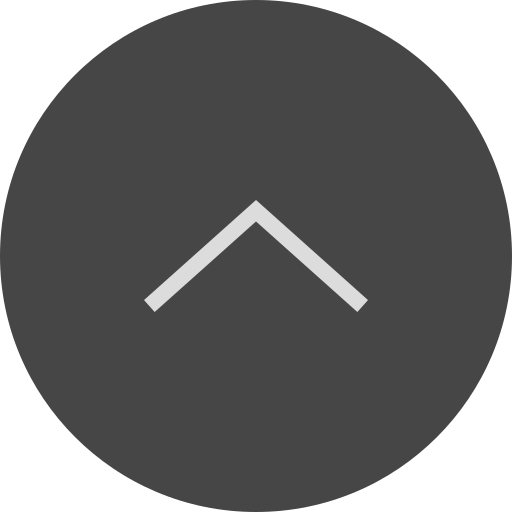
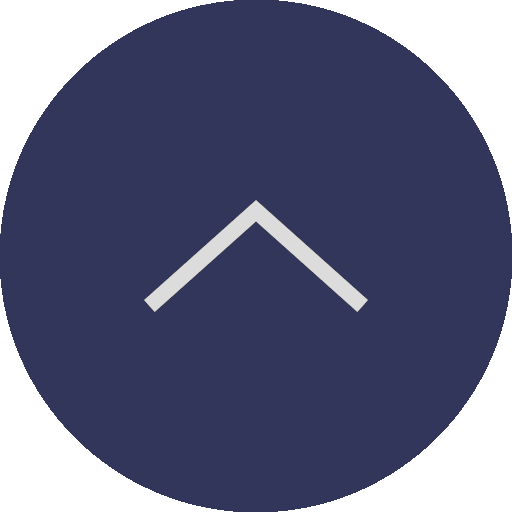
Commit avant retour

diff --git a/frontReact/front-webook/src/assets/components/LibraryFrame/ModalAjout/ModalAjout.js b/frontReact/front-webook/src/assets/components/LibraryFrame/ModalAjout/ModalAjout.js
@@ -1,0 +1,72 @@
+import React, { useState, useEffect } from "react";
+export default function ModalAjout(props) {
+ 
+   return (
+      
+      <form id="modal-ajout"  style={props.isVisible?"display:block":"display:none"}>
+         <section>
+            {/* {coverImgFile ? (
+               <img src={coverImgFile} className="thumbnail" />
+            ) : (
+               <div className="thumbnail"></div>
+            )} */}
+            <label className="input-label" for="coverImg">
+               Couverture
+            </label>
+            <input
+               type="file"
+               name="coverImg"
+              /*  onChange={handleImgChange} */
+               accept="image/*"
+               pattern="^(.*\.(jpg|jpeg|png|gif|bmp|svg|tif|tiff))$"
+            />
+         </section>
+         <label className="input-label" for="titre">
+            Titre
+         </label>
+         <input
+            type="text"
+            maxLength="100"
+            name="titre"
+            pattern="/^[\p{L}]+(?:\s[\p{L}]+)*$/gmu"
+            className="form-input"
+         ></input>
+         <label className="input-label" for="auteur">
+            Auteur
+         </label>
+         <input
+            type="text"
+            maxLength="50"
+            name="auteur"
+            pattern="/^[\p{L}]+(?:\s[\p{L}]+)*$/gmu"
+            className="form-input"
+         ></input>
+         <label className="input-label" for="langue">
+            Langue
+         </label>
+         <input
+            type="text"
+            maxLength="50"
+            name="langue"
+            pattern="/^[\p{L}]+(?:\s[\p{L}]+)*$/gmu"
+            className="form-input"
+         ></input>
+
+         <label for="tag-forest">Tags</label>
+         <input type="text" name="tag-forest" className="tag-forest"></input>
+
+         <label for="abstract">Résumé</label>
+         <input type="text" name="abstract" className="abstract"></input>
+
+         <label for="fichier">
+            Ajoutez un fichier (si vous en avez les droits... 🤡)
+         </label>
+         <input
+            type="file"
+            name="fichier"
+            accept=".txt,.rtf,.doc,.docx,.odt,.pdf"
+         ></input>
+         <input type="submit"></input>
+      </form>
+   );
+}

diff --git a/frontReact/front-webook/src/assets/components/LibraryFrame/LibraryFrame.js b/frontReact/front-webook/src/assets/components/LibraryFrame/LibraryFrame.js
@@ -1,7 +1,17 @@
 import "../LibraryFrame/LibraryFrame.css";
+import ModalAjout from "./ModalAjout/ModalAjout";
 import React, { useState, useEffect } from "react";
 
-export default function LibraryFrame() {
+function getRandomColor() {
+   let letters = "0123456789ABCDEF";
+   let color = "#";
+   for (let i = 0; i < 6; i++) {
+      color += letters[Math.floor(Math.random() * 16)];
+   }
+   return color;
+}
+
+export default function LibraryFrame(props) {
    const [books, setBooks] = useState([]);
    useEffect(() => {
       const options = { method: "GET" };
@@ -10,18 +20,23 @@ export default function LibraryFrame() {
          .then((response) => setBooks(response.data))
          .catch((err) => console.error(err));
    }, []);
+   const [isVisible,setIsVisible]=useState(false);
    return (
-     
-         <div id="library-frame">
-            <article className="book add-book" id="add-book">
-               <h2 className="book-title">Add book</h2>
+      <div id="library-frame">
+         <article className="book add-book" id="add-book">
+            <p className="book-title" onClick={toggleVisibility}>Add book</p>
+         </article>
+         {books.map((book) => (
+            <article
+               key={book.titre}
+               className="book"
+               style={{ backgroundColor: getRandomColor() }}
+            >
+               <p className="book-title">{book.titre}</p>
+               <h6 className="book-author">{book.auteur}</h6>
             </article>
-            {books.map((book) => (
-               <article key={book.titre} className="book">
-                  <p className="book-title">{book.titre}</p>
-                  <h6 className="book-author">{book.auteur}</h6>
-               </article>
-            ))}
-         </div>
+         ))}
+         <ModalAjout isVisible={isVisible}/>
+      </div>
    );
 }

diff --git a/frontReact/front-webook/src/assets/components/Footer/Footer.css b/frontReact/front-webook/src/assets/components/Footer/Footer.css
@@ -1,35 +1,34 @@
 /* styles for footer container */
 .footer-container {
-  display:flex;
-  justify-content: space-around;
-    position: fixed;
-    bottom: 0;
-    left: 0;
-    right: 0;
-   
-    background-color: #32365B;
-    box-shadow: 0px 0px 10px rgba(0, 0, 0, 0.3);
-  }
-  
-  .folded{
-    height:0px
-  }
-  .unfolded{
-    height: 100px;
-  }
-  /* styles for footer stem */
-  .footer-stem {
-    position: absolute;
-    top: -20px;
-    left: 50%;
-    width: 30px;
-    height: 30px;
-    border-radius: 30px 30px 30px 30px;
-    box-shadow: 0px 0px 10px rgba(0, 0, 0, 0.3);
-    cursor: pointer;
-  }
-  .down{
-    transform: rotate(180deg);
-  }
-  
-  
+   display: flex;
+   justify-content: space-around;
+   align-items: center;
+   position: relative;
+   bottom: 0;
+   left: 0;
+   right: 0;
+   color: white;
+   background-color: #32365b;
+   box-shadow: 0px 0px 10px rgba(0, 0, 0, 0.3);
+}
+
+.folded {
+   visibility: hidden;
+   height: 0px;
+}
+/* styles for footer stem */
+.footer-stem {
+   visibility: visible;
+   position: absolute;
+   top: -25px;
+   left: 50%;
+   width: 30px;
+   height: 30px;
+   border-radius: 30px 30px 30px 30px;
+   box-shadow: 0px 0px 10px rgba(0, 0, 0, 0.3);
+   cursor: pointer;
+   margin-top: 20px;
+}
+.down {
+   transform: rotate(180deg);
+}

diff --git a/frontReact/front-webook/src/assets/components/LibraryFrame/LibraryFrame.css b/frontReact/front-webook/src/assets/components/LibraryFrame/LibraryFrame.css
@@ -16,13 +16,20 @@
    flex-direction: column;
    flex-wrap: wrap;
    writing-mode: sideways-lr;
-   background-color: blue;
    border: solid black 1px;
    height: 7em;
    width: min-content;
-   word-break: break-all;
    box-shadow: 2px 2px 5px rgba(0, 0, 0, 0.1);
    border-radius: 5px;
+}
+.add-book{
+   background-color: #bbc2e2;
+  color:#f6de29;
+   font-size :larger;
+   align-items: center;
+   margin:0 10px 0 10px;
+   font-weight: bolder;
+   font-style:oblique;
 }
 .book:hover {
    transform: scale(1.2);

diff --git a/frontReact/front-webook/src/index.css b/frontReact/front-webook/src/index.css
@@ -13,9 +13,8 @@ code {
       monospace;
 }
 #load-more-button {
-  margin: auto;
+   margin: auto auto 20px auto;
    display: flex;
-   flex-direction: row;
    justify-content: center;
    align-items: center;
    padding: 10px 30px;
@@ -23,8 +22,5 @@ code {
    height: 50px;
    background: #949ce7;
    border-radius: 4px;
-   flex: none;
-   order: 0;
-   flex-grow: 0;
-   cursor:pointer;
+   cursor: pointer;
 }
